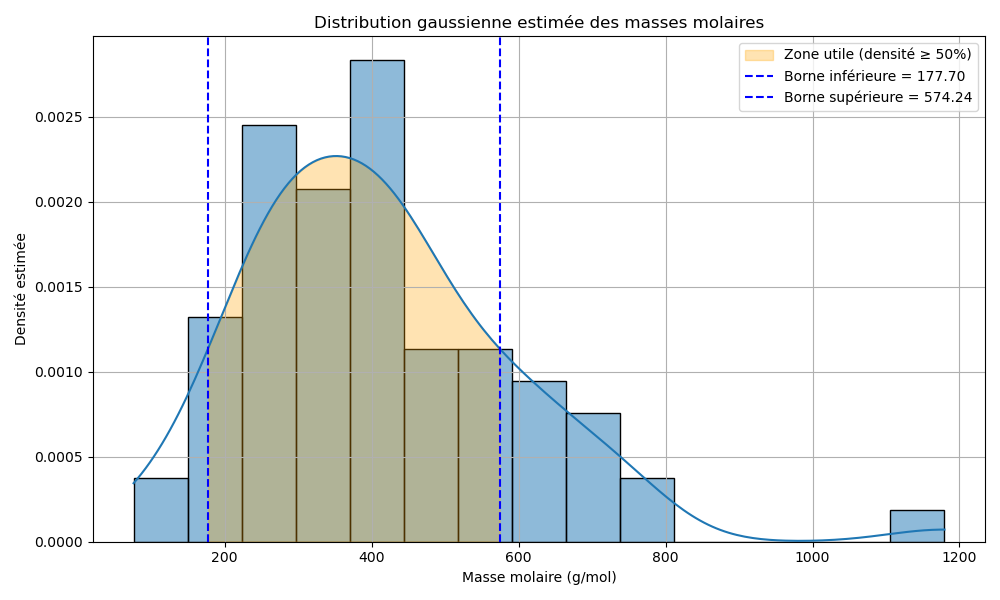
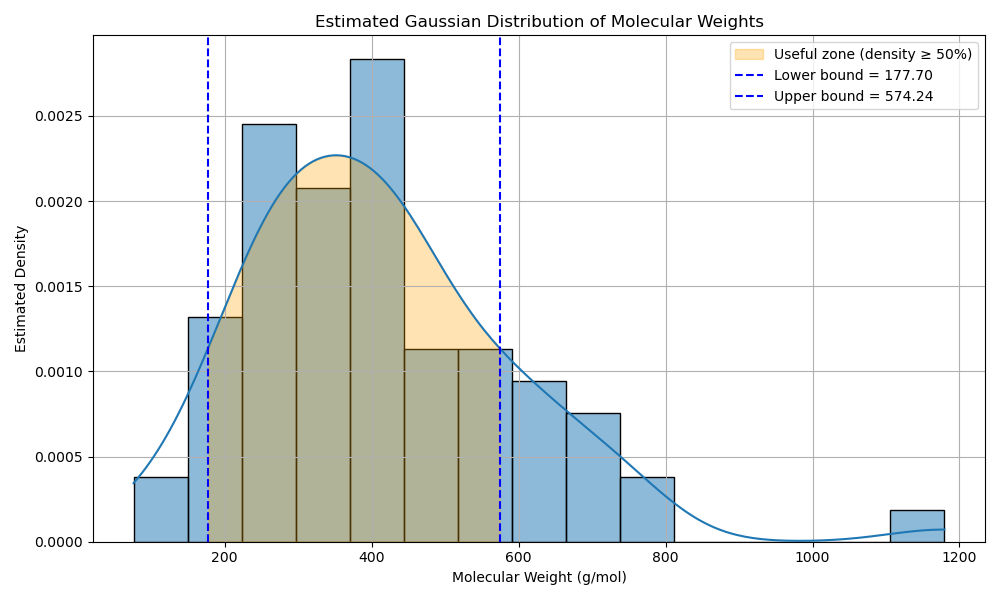
Clean repo

diff --git a/main_file/data/data_on_ruthenium/get_and_filter_smiles_similar.py b/main_file/data/data_on_ruthenium/get_and_filter_smiles_similar.py
@@ -10,41 +10,41 @@ output_dir = "data_smiles"
 output_csv_file = os.path.join(output_dir, "filtered_smiles_similar.csv")
 input_csv_file = os.path.join(output_dir, "Cross_Coupling_Smiles.csv")
 
-metaux_a_supprimer = {"Ag", "Cu", "Au", "Ni", "Pd", "Pt"}
+metals_to_remove = {"Ag", "Cu", "Au", "Ni", "Pd", "Pt"}
 
-# === Créer le dossier de sortie ===
+# === Create output directory ===
 os.makedirs(output_dir, exist_ok=True)
 
-# === Supprimer le fichier de sortie s'il existe déjà ===
+# === Delete output file if it already exists ===
 if os.path.exists(output_csv_file):
     os.remove(output_csv_file)
-    print(f"🧹 Ancien fichier supprimé : {output_csv_file}")
+    print(f"🧹 Old file deleted: {output_csv_file}")
 
-# === Initialiser le nouveau fichier CSV avec en-tête ===
+# === Initialize new CSV file with header ===
 with open(output_csv_file, "w", newline='') as f:
     writer = csv.writer(f)
     writer.writerow(["smiles"])
 
-# === Fonction : nettoyer et filtrer une molécule ===
-def nettoyer_et_filtrer(smi):
+# === Function: clean and filter a molecule ===
+def clean_and_filter(smi):
     mol = Chem.MolFromSmiles(smi)
     if mol is None:
         return None
 
-    # Supprimer les métaux
+    # Remove metals
     rw_mol = RWMol(mol)
-    indices = [atom.GetIdx() for atom in rw_mol.GetAtoms() if atom.GetSymbol() in metaux_a_supprimer]
+    indices = [atom.GetIdx() for atom in rw_mol.GetAtoms() if atom.GetSymbol() in metals_to_remove]
     for idx in sorted(indices, reverse=True):
         rw_mol.RemoveAtom(idx)
     mol = rw_mol.GetMol()
 
-    # Vérifier la validité
+    # Check validity
     try:
         Chem.SanitizeMol(mol)
     except:
         return None
 
-    # Recalculer descripteurs
+    # Recompute descriptors
     mw = Descriptors.MolWt(mol)
     atom_counts = {}
     for atom in mol.GetAtoms():
@@ -59,8 +59,8 @@ def nettoyer_et_filtrer(smi):
         return Chem.MolToSmiles(mol)
     return None
 
-# === Partie 1 : Dataset Hugging Face ===
-print(f"\n📡 Traitement du dataset : {datasets_to_use[0][0]}")
+# === Part 1: Hugging Face dataset ===
+print(f"\n📡 Processing dataset: {datasets_to_use[0][0]}")
 ds = load_dataset(datasets_to_use[0][0], split="train", streaming=True)
 
 total_hf = 0
@@ -68,15 +68,15 @@ with open(output_csv_file, "a", newline='') as f:
     writer = csv.writer(f)
     for row in ds:
         raw_smi = row.get(datasets_to_use[0][1], "").strip()
-        cleaned_smi = nettoyer_et_filtrer(raw_smi)
+        cleaned_smi = clean_and_filter(raw_smi)
         if cleaned_smi:
             writer.writerow([cleaned_smi])
             total_hf += 1
 
-print(f"✅ {total_hf} SMILES écrits depuis Hugging Face")
+print(f"✅ {total_hf} SMILES written from Hugging Face")
 
-# === Partie 2 : Fichier local Cross_Coupling_Smiles.csv ===
-print(f"\n📂 Traitement du fichier local : {input_csv_file}")
+# === Part 2: Local file Cross_Coupling_Smiles.csv ===
+print(f"\n📂 Processing local file: {input_csv_file}")
 total_local = 0
 
 if os.path.exists(input_csv_file):
@@ -85,15 +85,16 @@ if os.path.exists(input_csv_file):
         writer = csv.writer(f_out)
         for row in reader:
             raw_smi = row.get("SMILES", "").strip()
-            cleaned_smi = nettoyer_et_filtrer(raw_smi)
+            cleaned_smi = clean_and_filter(raw_smi)
             if cleaned_smi:
                 writer.writerow([cleaned_smi])
                 total_local += 1
-    print(f"✅ {total_local} SMILES ajoutés depuis Cross_Coupling_Smiles.csv")
+    print(f"✅ {total_local} SMILES added from Cross_Coupling_Smiles.csv")
 else:
-    print(f"⚠ Fichier non trouvé : {input_csv_file}")
+    print(f"⚠ File not found: {input_csv_file}")
 
-# === Résumé final ===
-print(f"\n🎉 Total combiné : {total_hf + total_local} molécules filtrées et nettoyées")
+# === Final summary ===
+print(f"\n🎉 Combined total: {total_hf + total_local} molecules filtered and cleaned")
+
 
 

diff --git a/main_file/data/data_on_ruthenium/gaussian_distrib_ligands.py b/main_file/data/data_on_ruthenium/gaussian_distrib_ligands.py
@@ -1,0 +1,68 @@
+import pandas as pd
+from rdkit import Chem
+from rdkit.Chem import Descriptors
+import matplotlib.pyplot as plt
+import seaborn as sns
+from scipy.stats import gaussian_kde
+import numpy as np
+import os
+
+# === 1. Locate and load the CSV file ===
+script_dir = os.path.dirname(os.path.abspath(__file__))
+file_path = os.path.join(script_dir, "..", "..", "..", "data_smiles", "Ligand_candidates.csv")
+file_path = os.path.normpath(file_path)
+
+
+df = pd.read_csv(file_path)
+
+# === 2. Function to calculate molecular weight from SMILES ===
+def calc_mol_weight(smiles):
+    try:
+        mol = Chem.MolFromSmiles(smiles)
+        if mol is not None:
+            return Descriptors.MolWt(mol)
+        else:
+            return None
+    except:
+        return None
+
+df['Molecular_Weight'] = df['Ligand_SMILES'].apply(calc_mol_weight)
+
+# === 3. Clean the data (remove rows with SMILES parsing errors) ===
+df_clean = df.dropna(subset=['Molecular_Weight'])
+
+# === 4. Compute KDE (Gaussian Kernel Density Estimate) ===
+weights = df_clean['Molecular_Weight'].values
+kde = gaussian_kde(weights)
+x_range = np.linspace(weights.min(), weights.max(), 1000)
+density = kde(x_range)
+
+# Define a density threshold (e.g., 50% of the max density)
+threshold = 0.5 * max(density)
+
+# Keep only values within the dense region
+dense_region = x_range[density >= threshold]
+lower_bound = dense_region.min()
+upper_bound = dense_region.max()
+
+print(f"Density-based range (50% max): {lower_bound:.2f} – {upper_bound:.2f} g/mol")
+
+# === 5. Plot KDE distribution with selected range ===
+plt.figure(figsize=(10, 6))
+sns.histplot(weights, kde=True, bins=15, stat="density")
+plt.fill_between(x_range, 0, density, where=(density >= threshold), color='orange', alpha=0.3, label='Useful zone (density ≥ 50%)')
+plt.axvline(lower_bound, color='blue', linestyle='--', label=f'Lower bound = {lower_bound:.2f}')
+plt.axvline(upper_bound, color='blue', linestyle='--', label=f'Upper bound = {upper_bound:.2f}')
+plt.title("Estimated Gaussian Distribution of Molecular Weights")
+plt.xlabel("Molecular Weight (g/mol)")
+plt.ylabel("Estimated Density")
+plt.legend()
+plt.grid(True)
+plt.tight_layout()
+plt.show()
+
+
+
+
+
+
